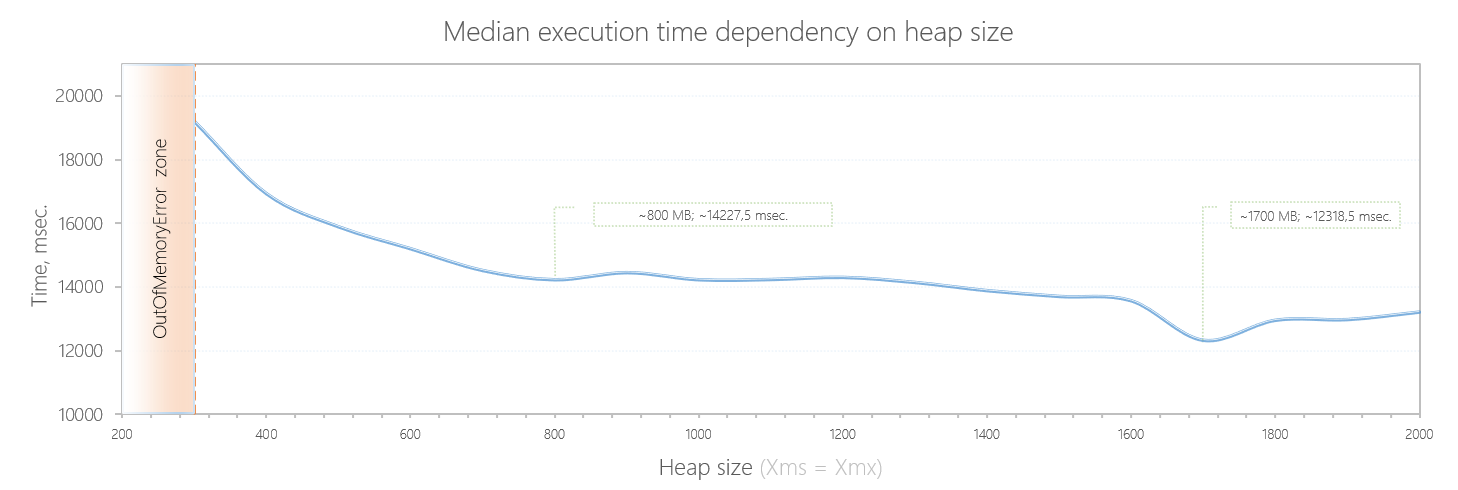
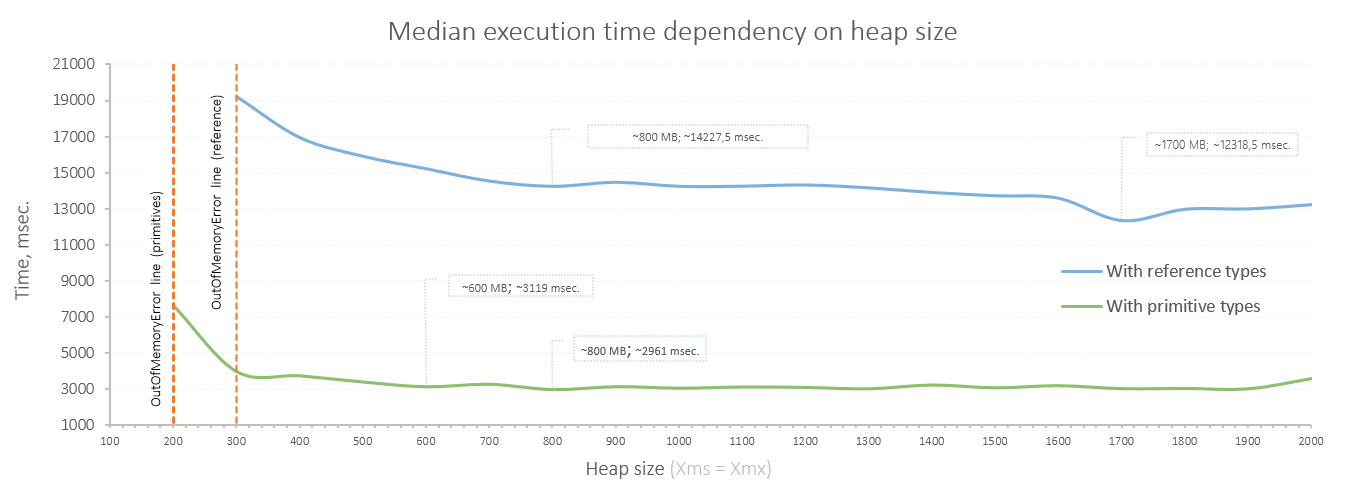
hw04-gc completed

diff --git a/hw04-gc/src/main/java/ru/otus/Summator.java b/hw04-gc/src/main/java/ru/otus/Summator.java
@@ -3,12 +3,14 @@ package ru.otus;
 import java.util.ArrayList;
 import java.util.List;
 
+import static java.lang.Math.abs;
+
 public class Summator {
-    private Integer sum = 0;
-    private Integer prevValue = 0;
-    private Integer prevPrevValue = 0;
-    private Integer sumLastThreeValues = 0;
-    private Integer someValue = 0;
+    private int sum = 0;
+    private int prevValue = 0;
+    private int prevPrevValue = 0;
+    private int sumLastThreeValues = 0;
+    private int someValue = 0;
     private final List<Data> listValues = new ArrayList<>();
 
     //!!! сигнатуру метода менять нельзя
@@ -26,27 +28,27 @@ public class Summator {
 
         for (var idx = 0; idx < 3; idx++) {
             someValue += (sumLastThreeValues * sumLastThreeValues / (data.getValue() + 1) - sum);
-            someValue = Math.abs(someValue) + listValues.size();
+            someValue = abs(someValue) + listValues.size();
         }
     }
 
-    public Integer getSum() {
+    public int getSum() {
         return sum;
     }
 
-    public Integer getPrevValue() {
+    public int getPrevValue() {
         return prevValue;
     }
 
-    public Integer getPrevPrevValue() {
+    public int getPrevPrevValue() {
         return prevPrevValue;
     }
 
-    public Integer getSumLastThreeValues() {
+    public int getSumLastThreeValues() {
         return sumLastThreeValues;
     }
 
-    public Integer getSomeValue() {
+    public int getSomeValue() {
         return someValue;
     }
 }

diff --git a/hw04-gc/src/main/java/ru/otus/CalcDemo.java b/hw04-gc/src/main/java/ru/otus/CalcDemo.java
@@ -10,7 +10,7 @@ package ru.otus;
 */
 
 
-import java.time.LocalDateTime;
+import static java.time.LocalTime.now;
 
 public class CalcDemo {
     public static void main(String[] args) {
@@ -18,12 +18,12 @@ public class CalcDemo {
         var summator = new Summator();
         long startTime = System.currentTimeMillis();
 
-        for (var idx = 0; idx < counter; idx++) {
+        for (int idx = 0; idx < counter; idx++) {
             var data = new Data(idx);
             summator.calc(data);
 
             if (idx % 10_000_000 == 0) {
-                System.out.println(LocalDateTime.now() + " current idx:" + idx);
+                System.out.println(now() + " current idx:" + idx);
             }
         }
 

diff --git a/hw04-gc/src/main/java/ru/otus/Data.java b/hw04-gc/src/main/java/ru/otus/Data.java
@@ -1,13 +1,13 @@
 package ru.otus;
 
 public class Data {
-    private final Integer value;
+    private final int value;
 
-    public Data(Integer value) {
+    public Data(int value) {
         this.value = value;
     }
 
-    public Integer getValue() {
+    public int getValue() {
         return value;
     }
 }

diff --git a/hw04-gc/README.md b/hw04-gc/README.md
@@ -44,13 +44,23 @@
             <i>-Xms</i> равнялся <i>-Xmx</i>. Для каждого установленого размер heap'а запуск выполнялся 4 раза 
             последовательно друг за другом. Выбросы данных отсеивались выбором медианы значений времени.
             <br><b>Ограничения:</b> RAM ограничена сверху 2GB.
-            <br><b>Что было получено: </b>
+            <br>
+            <br><b>Результат на ссылочных типах данных:</b>
             <ul>
                 <li>
                     Минимум времени, минимум памяти: ~14227,5 msec. при ~800 MB;
                 </li>
                 <li>
                     Лучший показатель: ~12318,5 msec. при ~1700 MB;
+                </li>
+            </ul>
+            <b>Результат при замене ссылочных типов на примитивы:</b>
+            <ul>
+                <li>
+                    Минимум времени, минимум памяти: ~3119 msec. при ~600 MB;
+                </li>
+                <li>
+                    Лучший показатель: ~2961 msec. при ~800 MB;
                 </li>
             </ul>
         </p>
